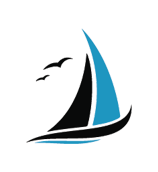
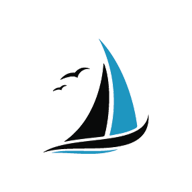
Apply verified mobile/design review fixes
From the mobile-friendliness + design review (map scroll-trap findings were
refuted — already fixed). Confirmed issues addressed:

HIGH
- About "what we track" page no longer contradicts the hunt: it now states
  that posting a hunt photo sends the photo + location to the Chamber, instead
  of the false "photos never leave your phone" / "GPS stays on your phone".
- Coral CTA contrast: darkened the coral ramp one step (#c97940 → #a85c28,
  hover #8a4c22) so white-on-coral is ~5:1 (AA) — the primary user is outdoors
  in sunlight. Still on-brand warm coral; fixes every CTA at once.

MEDIUM
- In-page anchors (/parking#atms, admin #editor) clear the sticky header:
  scroll-mt on Section + scroll-padding-top on html.
- Social/link-share metadata: OG + Twitter cards, metadataBase, and a viewport
  export (viewport-fit=cover + theme-color) so texted links render a real card.
- PageHeader eyebrow uses tide-deep (~5:1) instead of sub-AA tide.
- iOS safe-area: bottom nav + body padding + "More" sheet honor
  env(safe-area-inset-bottom).
- Webcams use object-contain so non-4:3 WSDOT feeds (holding-lane cams) aren't
  cropped.
- Events page: fixed nested <main>, added an off-season empty state.
- Stale /admin security warning replaced (page is gated now; flag the real gap:
  unauthenticated /api/hunts routes).

LOW
- Square app icon + apple-icon + theme color (was a distorted non-square png).
- Volunteer section empty state; invite-URL break-all so long hostnames don't
[…]

diff --git a/src/app/layout.tsx b/src/app/layout.tsx
@@ -1,4 +1,4 @@
-import type { Metadata } from "next";
+import type { Metadata, Viewport } from "next";
 import { Poppins, Roboto, Roboto_Slab, Satisfy } from "next/font/google";
 import "./globals.css";
 import { SiteNav } from "@/components/site-nav";
@@ -26,13 +26,48 @@ const satisfy = Satisfy({
   variable: "--font-satisfy",
 });
 
+// Set NEXT_PUBLIC_SITE_URL to the deployed origin so shared-link cards and the
+// OG image resolve to absolute URLs. Dev falls back to localhost (fine — no
+// social scraper hits dev).
+const SITE_URL = process.env.NEXT_PUBLIC_SITE_URL ?? "http://localhost:3000";
+
+const DESCRIPTION =
+  "Ferry times, restaurants, events, parking, and itineraries for Kingston, Washington — the gateway to the Kitsap Peninsula and Olympic National Park. The interactive companion to explorekingstonwa.com.";
+
+export const viewport: Viewport = {
+  // Extend under the iOS home indicator so the bottom nav can use its inset.
+  viewportFit: "cover",
+  themeColor: "#1E96C0",
+};
+
 export const metadata: Metadata = {
+  metadataBase: new URL(SITE_URL),
   title: {
     default: "Explore Kingston — Kingston, Washington",
     template: "%s · Explore Kingston",
   },
-  description:
-    "Ferry times, restaurants, events, parking, and itineraries for Kingston, Washington — the gateway to the Kitsap Peninsula and Olympic National Park. The interactive companion to explorekingstonwa.com.",
+  description: DESCRIPTION,
+  // This app spreads by visitors texting links — give every share a real card.
+  openGraph: {
+    type: "website",
+    siteName: "Explore Kingston",
+    title: "Explore Kingston — Kingston, Washington",
+    description: DESCRIPTION,
+    images: [
+      {
+        url: "/brand/photo-hansville-hero.jpg",
+        width: 1024,
+        height: 683,
+        alt: "Point No Point across Puget Sound near Kingston, Washington",
+      },
+    ],
+  },
+  twitter: {
+    card: "summary_large_image",
+    title: "Explore Kingston — Kingston, Washington",
+    description: DESCRIPTION,
+    images: ["/brand/photo-hansville-hero.jpg"],
+  },
 };
 
 export default function RootLayout({

diff --git a/src/app/about/page.tsx b/src/app/about/page.tsx
@@ -68,9 +68,15 @@ export default function AboutPage() {
                 </li>
                 <li>
                   Device location, only when you tap a location feature (like &ldquo;what&apos;s
-                  open near me&rdquo; or a scavenger-hunt check-in) — always behind the
-                  browser&apos;s permission prompt, rounded to about a block before it&apos;s
-                  stored, and reported only as neighborhood-level counts.
+                  open near me&rdquo;) — always behind the browser&apos;s permission prompt,
+                  rounded to about a block before it&apos;s stored, and reported only as
+                  neighborhood-level counts.
+                </li>
+                <li>
+                  When you post a photo at a scavenger-hunt stop, that photo and its location
+                  go to the hunt organizers at the Chamber so they can confirm the find. It&apos;s
+                  the one thing the app sends on your behalf — don&apos;t include anything you
+                  wouldn&apos;t want them to see.
                 </li>
                 <li>That&apos;s it. Really.</li>
               </ul>
@@ -81,12 +87,14 @@ export default function AboutPage() {
                 <li>No accounts or sign-ins — nothing here needs one.</li>
                 <li>No cookies for tracking, no ad tech, and nothing is ever sold to anyone.</li>
                 <li>
-                  No precise location logging, ever — outside the opt-in features above, we only
-                  see the rough region a connection comes from, and even opted-in pings are
-                  coarsened to about a block before anything is stored. Scavenger-hunt GPS
-                  check-ins happen on your phone, not our servers.
+                  No precise location logging for analytics — outside the opt-in location
+                  features above, we only see the rough region a connection comes from, and even
+                  opted-in pings are coarsened to about a block before anything is stored.
                 </li>
-                <li>Scavenger-hunt photos never leave your phone.</li>
+                <li>
+                  No hidden uploads — the app only sends something you made when you deliberately
+                  post a scavenger-hunt photo (see left).
+                </li>
               </ul>
             </div>
           </div>

diff --git a/src/app/events/page.tsx b/src/app/events/page.tsx
@@ -148,12 +148,31 @@ export default async function EventsPage() {
   }
 
   return (
-    <main>
+    <>
       <PageHeader
         eyebrow="What's happening"
         title="Events"
         intro="Markets on the marina lawn, free concerts two nights a week in high summer, and the whole town out for the 4th. Most of it is a short walk from the ferry."
       />
+
+      {thisWeekend.length === 0 && byMonth.size === 0 && (
+        <Section>
+          <Card>
+            <p className="font-semibold text-sound-deep">Nothing on the calendar right now.</p>
+            <p className="mt-1 text-sm text-ink-soft">
+              Between seasons it can go quiet here. Check the{" "}
+              <ExternalLink href="https://business.kingstonchamber.com/events">
+                Kingston Chamber calendar
+              </ExternalLink>{" "}
+              and the{" "}
+              <ExternalLink href="https://portofkingston.org/events/list/">
+                Port of Kingston calendar
+              </ExternalLink>{" "}
+              for the latest, or submit your own below.
+            </p>
+          </Card>
+        </Section>
+      )}
 
       {thisWeekend.length > 0 && (
         <Section
@@ -202,6 +221,6 @@ export default async function EventsPage() {
           details with the organizer before making the trip.
         </p>
       </Section>
-    </main>
+    </>
   );
 }

diff --git a/src/app/globals.css b/src/app/globals.css
@@ -22,8 +22,8 @@
   --color-tide-deep: #16758f; /* darker cyan — accessible link/text variant */
   --color-sound: #324a6d; /* brand deep navy — secondary */
   --color-sound-deep: #22334d; /* darker navy — footer, hero depths */
-  --color-coral: #c97940; /* warm CTA — deepened from brand peach #FFBC7D */
-  --color-coral-deep: #a85c28; /* hover + accessible text-on-white variant */
+  --color-coral: #a85c28; /* warm CTA — AA-legible with white text (~5:1) for sunlit outdoor use */
+  --color-coral-deep: #8a4c22; /* CTA hover + text-on-white variant (~6.5:1) */
   --color-ink: #20262e; /* near-black headings/body */
   --color-ink-soft: #6b7683; /* muted body gray */
   --color-fern: #4a7c59; /* PNW evergreen — success, open-now */
@@ -55,9 +55,14 @@ h3,
   background-repeat: repeat;
 }
 
-/* Room for the fixed mobile bottom nav */
+/* Room for the fixed mobile bottom nav, plus the iOS home-indicator inset */
 @media (max-width: 767px) {
   body {
-    padding-bottom: 4.5rem;
+    padding-bottom: calc(4.5rem + env(safe-area-inset-bottom));
   }
+}
+
+/* In-page anchors (e.g. /parking#atms) should clear the sticky header. */
+html {
+  scroll-padding-top: 5.5rem;
 }

diff --git a/src/app/give/page.tsx b/src/app/give/page.tsx
@@ -116,6 +116,15 @@ export default async function GiveBackPage() {
         title="Volunteer right now"
         subtitle="Real shifts this summer, a couple hours each. No account needed — v1 keeps it simple: you contact the org, they put you to work."
       >
+        {sortedNeeds.length === 0 && (
+          <Card>
+            <p className="font-semibold text-sound-deep">No shifts posted right now.</p>
+            <p className="mt-1 text-sm text-ink-soft">
+              Things quiet down between events — but the organizations above always welcome an
+              email from someone who wants to help. Reach out to any of them directly.
+            </p>
+          </Card>
+        )}
         <div className="grid gap-4 sm:grid-cols-2">
           {sortedNeeds.map((need) => {
             const charity = charityById.get(need.charityId);

diff --git a/src/app/admin/accounts/manager.tsx b/src/app/admin/accounts/manager.tsx
@@ -259,7 +259,7 @@ export function AccountsManager({
                 </div>
                 <div className="mt-2 flex flex-wrap items-center gap-2 text-sm text-ink-soft">
                   <span>
-                    Redeem at <span className="font-medium text-ink">{joinUrl}</span>
+                    Redeem at <span className="font-medium break-all text-ink">{joinUrl}</span>
                   </span>
                   <CopyButton text={joinUrl} label="Copy link" />
                 </div>
@@ -322,7 +322,7 @@ export function AccountsManager({
             </div>
             <div className="mt-3 flex flex-wrap items-center gap-2 text-sm text-ink-soft">
               <span>
-                They redeem it at <span className="font-medium text-ink">{joinUrl}</span>
+                They redeem it at <span className="font-medium break-all text-ink">{joinUrl}</span>
               </span>
               <CopyButton text={joinUrl} label="Copy link" />
             </div>
@@ -331,7 +331,7 @@ export function AccountsManager({
                 <p className="text-sm font-semibold text-sound-deep">Paste-ready email blurb</p>
                 <CopyButton text={blurbFor(fresh)} label="Copy blurb" />
               </div>
-              <p className="mt-2 rounded-lg border border-sand bg-white p-3 text-sm text-ink">
+              <p className="mt-2 rounded-lg border border-sand bg-white p-3 text-sm break-words text-ink">
                 {blurbFor(fresh)}
               </p>
             </div>

diff --git a/src/app/admin/page.tsx b/src/app/admin/page.tsx
@@ -291,9 +291,9 @@ export default async function AdminPage() {
             evidence of reach and of traffic sent to local businesses.
           </p>
           <p className="mt-2 font-semibold text-coral-deep">
-            Heads up: this page is unlinked from the site navigation but it is NOT
-            authenticated — anyone who knows the URL can view it. Add authentication before
-            deploying publicly.
+            This dashboard is gated to admin accounts. One thing still on the to-do list before
+            a public launch: the scavenger-hunt upload routes (/api/hunts/*) aren&apos;t
+            authenticated yet, so lock those down before promoting the hunts widely.
           </p>
         </Callout>
       </Section>

diff --git a/src/components/site-nav.tsx b/src/components/site-nav.tsx
@@ -92,9 +92,9 @@ export function SiteNav() {
         </div>
       </header>
 
-      {/* Mobile bottom bar */}
+      {/* Mobile bottom bar — pad for the iOS home-indicator inset */}
       <nav
-        className="fixed inset-x-0 bottom-0 z-40 border-t border-sand bg-white/95 backdrop-blur md:hidden"
+        className="fixed inset-x-0 bottom-0 z-40 border-t border-sand bg-white/95 pb-[env(safe-area-inset-bottom)] backdrop-blur md:hidden"
         aria-label="Mobile"
       >
         <div className="grid grid-cols-5">
@@ -133,7 +133,7 @@ export function SiteNav() {
 
       {/* Mobile "More" sheet */}
       {sheetOpen && (
-        <div className="fixed inset-x-0 bottom-[3.4rem] z-30 border-t border-sand bg-white p-4 shadow-[0_-8px_24px_rgba(22,64,94,0.12)] md:hidden">
+        <div className="fixed inset-x-0 bottom-[calc(3.4rem+env(safe-area-inset-bottom))] z-30 border-t border-sand bg-white p-4 shadow-[0_-8px_24px_rgba(22,64,94,0.12)] md:hidden">
           <div className="grid grid-cols-2 gap-2">
             {[...primaryLinks.filter((l) => !["/ferry", "/eat", "/events"].includes(l.href)), ...moreLinks].map(
               (l) => (

diff --git a/src/components/ui.tsx b/src/components/ui.tsx
@@ -22,7 +22,9 @@ export function PageHeader({
   return (
     <header className="mx-auto max-w-5xl px-4 pt-10 pb-6 sm:pt-14">
       {eyebrow && (
-        <p className="mb-2 text-sm font-semibold tracking-widest text-tide uppercase">{eyebrow}</p>
+        <p className="mb-2 text-sm font-semibold tracking-widest text-tide-deep uppercase">
+          {eyebrow}
+        </p>
       )}
       <h1 className="text-4xl font-semibold text-sound-deep sm:text-5xl">{title}</h1>
       {intro && <p className="mt-4 max-w-2xl text-lg text-ink-soft">{intro}</p>}
@@ -42,7 +44,7 @@ export function Section({
   id?: string;
 }) {
   return (
-    <section id={id} className="mx-auto max-w-5xl px-4 py-8">
+    <section id={id} className="mx-auto max-w-5xl px-4 py-8 scroll-mt-24">
       {title && <h2 className="text-2xl font-semibold text-sound-deep sm:text-3xl">{title}</h2>}
       {subtitle && <p className="mt-1 mb-2 text-ink-soft">{subtitle}</p>}
       <div className={title ? "mt-5" : undefined}>{children}</div>

diff --git a/src/app/webcams/webcam-grid.tsx b/src/app/webcams/webcam-grid.tsx
@@ -63,7 +63,10 @@ function WebcamCard({ cam }: { cam: Webcam }) {
           <img
             src={`${cam.imageUrl}?t=${stamp}`}
             alt={`${cam.name} — ${cam.location}`}
-            className="h-full w-full object-cover"
+            // contain (not cover) so non-4:3 WSDOT feeds aren't cropped — the
+            // holding-lane cams are near-square and cover would hide far rows;
+            // the bg-sound/5 frame letterboxes the difference.
+            className="h-full w-full object-contain"
             loading="lazy"
             onError={() => setOffline(true)}
           />